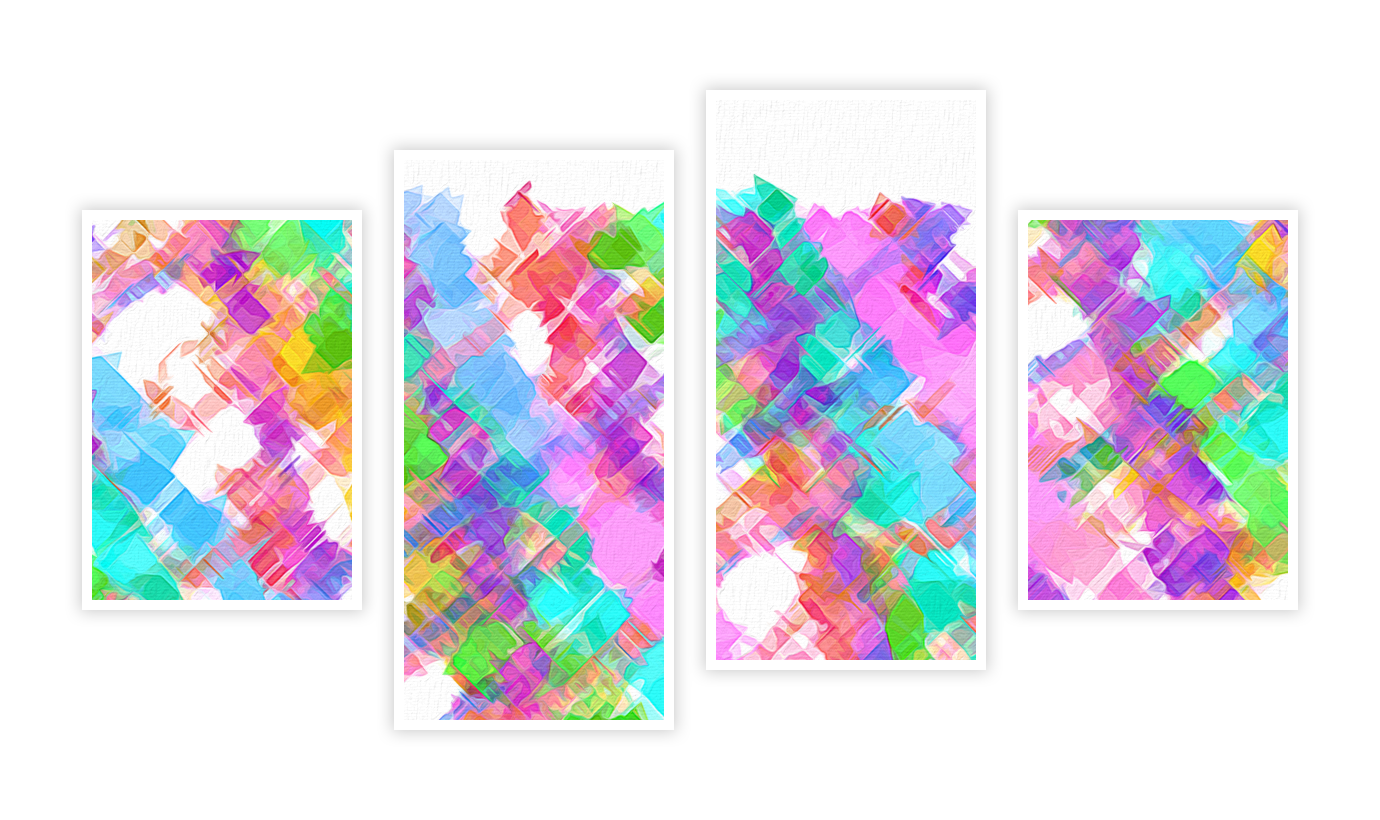
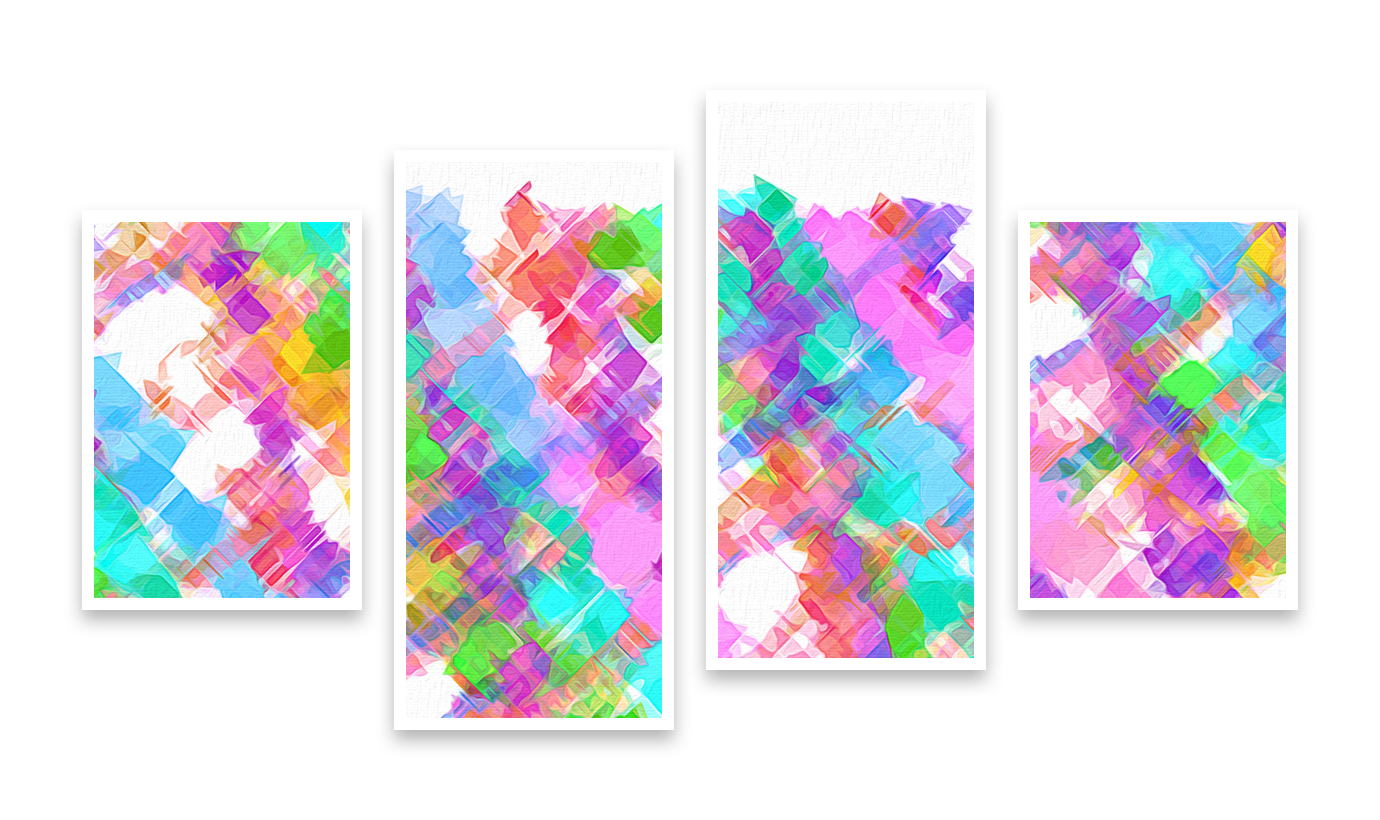
Add gallery image borders

diff --git a/src/pages/Games.js b/src/pages/Games.js
@@ -23,6 +23,7 @@ const Games = () => (
           "The Wandering Dark is a unique indie adventure game that takes you through a girl's dreams and nightmares as she deals with her struggles and fears in life. Battle through these nightmares, explore her different dream worlds, and fight for survival as she matures and grows.",
         link: '/games/the-wandering-dark',
         image: paintingTheWanderingDark,
+        imageBorder: 'black',
       },
       {
         id: 'squishem',
@@ -63,6 +64,7 @@ const Games = () => (
           'Escape the Basement is a point-and-click puzzle "escape" game. You, of all people, were chosen to die. A cruel man named Kane has locked you in his basement with no thought of letting you free. Can you outwit his evil plan and escape?',
         link: '/games/escape-the-basement',
         image: paintingEscapeTheBasement,
+        imageBorder: 'black',
       },
       {
         id: 'escape-the-estate',
@@ -71,6 +73,7 @@ const Games = () => (
           'Escape the Estate is a point-and-click puzzle "escape" game. Your life is on the line! Kane is at it again, and this time he is angry! Do you have what it takes to prevent his cruel intentions? Put your puzzle-solving skills to the test in the sequel to Escape the Basement!',
         link: '/games/escape-the-estate',
         image: paintingEscapeTheEstate,
+        imageBorder: 'black',
       },
       {
         id: 'internet-of-elephants',
@@ -95,6 +98,7 @@ const Games = () => (
           'Alphas is a top-down twin stick action shooter developed for a course at DePaul University. The game consists of five interlinked deadly arenas, several unique weapons, and a multitude of engaging enemies lead by the alpha boss. Can you survive the swarm?',
         link: '/games/alphas',
         image: paintingAlphas,
+        imageBorder: 'black',
       },
       {
         id: 'ferro',
@@ -103,6 +107,7 @@ const Games = () => (
           'Ferro is a unique virtual reality experience inspired by ferrofluids. As a scientist who has discovered a potential gateway into another universe, your job is to channel it to the right frequency. Players use a midi keyboard as the primary input device to initiate the machines and tune the portal.',
         link: '/games/ferro',
         image: paintingFerro,
+        imageBorder: 'black',
       },
       {
         id: 'elegy',

diff --git a/src/pages/Art.js b/src/pages/Art.js
@@ -15,6 +15,7 @@ const Art = () => (
           'Canvas is a never-ending, interactive painting. Alter the direction of the “brushes” and see what kind of abstract paintings you can create, or sit back and let it paint for you. Every thirty seconds the canvas is cleared and a new set of design principles are put in place. Learn to let go and design with the flow.',
         link: '/art/canvas',
         image: paintingCanvas,
+        imageBorder: 'none',
       },
       {
         id: 'blackhole',
@@ -23,6 +24,7 @@ const Art = () => (
           'Blackhole is a free-form, avant-garde game that enables the player to control particles in unique ways. Individuals explore their own creative design within the art piece, loosely making their own objectives and discovering new ways of controlling this “creative chaos”.',
         link: '/art/blackhole',
         image: paintingBlackhole,
+        imageBorder: 'black',
       },
       {
         id: 'mixed',
@@ -39,6 +41,7 @@ const Art = () => (
           'Hexahedroniks is a virtual reality, puzzle-like toy inspired by Rubik cubes. Paint the cube various colors by looking around and shooting colored orbs at the many faces. Avoid turning the cube all black while enjoying the calming experience of this art piece.',
         link: '/art/hexahedroniks',
         image: paintingHexahedroniks,
+        imageBorder: 'black',
       },
     ]}
   />

diff --git a/src/pages/Websites.js b/src/pages/Websites.js
@@ -35,20 +35,20 @@ const Websites = () => (
         image: paintingSquishem,
       },
       {
-        id: 'zigurous',
-        title: 'Zigurous',
-        description:
-          'Zigurous is an independent video game developer focused on creating games that have a strong balance of play, design, and art through storytelling and self-expression.',
-        link: '/websites/zigurous',
-        image: paintingZigurous,
-      },
-      {
         id: 'taylor-cochran-music',
         title: 'Taylor Cochran Music',
         description:
           'Taylor Cochran is a singer/songwriter from Nashville, Tennessee who pursued his songwriting career in early 2013 by gaining experience playing in local bars, venues, and with his church. Through his music, he aspires to send a message of joy, hope, and love.',
         link: '/websites/taylor-cochran-music',
         image: paintingTaylorCochranMusic,
+      },
+      {
+        id: 'zigurous',
+        title: 'Zigurous',
+        description:
+          'Zigurous is an independent video game developer focused on creating games that have a strong balance of play, design, and art through storytelling and self-expression.',
+        link: '/websites/zigurous',
+        image: paintingZigurous,
       },
       {
         id: 'let-it-beard',

diff --git a/src/styles/gallery.css b/src/styles/gallery.css
@@ -9,7 +9,7 @@
 }
 
 .gallery__button {
-  width: 10vw;
+  width: 10%;
   height: 100%;
   font-size: 64px;
 }
@@ -27,13 +27,15 @@
   display: flex;
   justify-content: center;
   align-content: center;
-  width: 80vw;
-  height: 40%;
+  width: 80%;
+  height: 100%;
   margin-bottom: 8em;
 }
 
 .slide {
   position: absolute;
+  top: 50%;
+  transform: translateY(-50%);
   display: flex;
   justify-content: center;
   align-items: center;
@@ -48,14 +50,25 @@
 }
 
 .slide__image-wrapper {
-  width: 1280px;
-  height: 540px;
+  max-width: 1280px;
 }
 
 .slide__image {
   width: 100%;
   height: 100%;
-  border: solid 12px #181818;
+  border: solid 14px white;
+  background-color: white;
+}
+
+.slide__image--border-black {
+  border-color: #181818;
+  background-color: black;
+}
+
+.slide__image--border-none {
+  border: none;
+  background-color: transparent;
+  box-shadow: none !important;
 }
 
 .slide__text-container {

diff --git a/src/components/Gallery.js b/src/components/Gallery.js
@@ -40,7 +40,17 @@ const Gallery = ({ className, slides = [] }) => {
               key={slide.id}
             >
               <div className="slide__image-wrapper">
-                <img alt="" className="slide__image" src={slide.image}></img>
+                <img
+                  alt=""
+                  className={classNames(
+                    'slide__image',
+                    {
+                      [`slide__image--border-${slide.imageBorder}`]: slide.imageBorder,
+                    },
+                    'box-shadow-4'
+                  )}
+                  src={slide.image}
+                ></img>
               </div>
               <div className="slide__text-container">
                 <div className="h4">{slide.title}</div>
